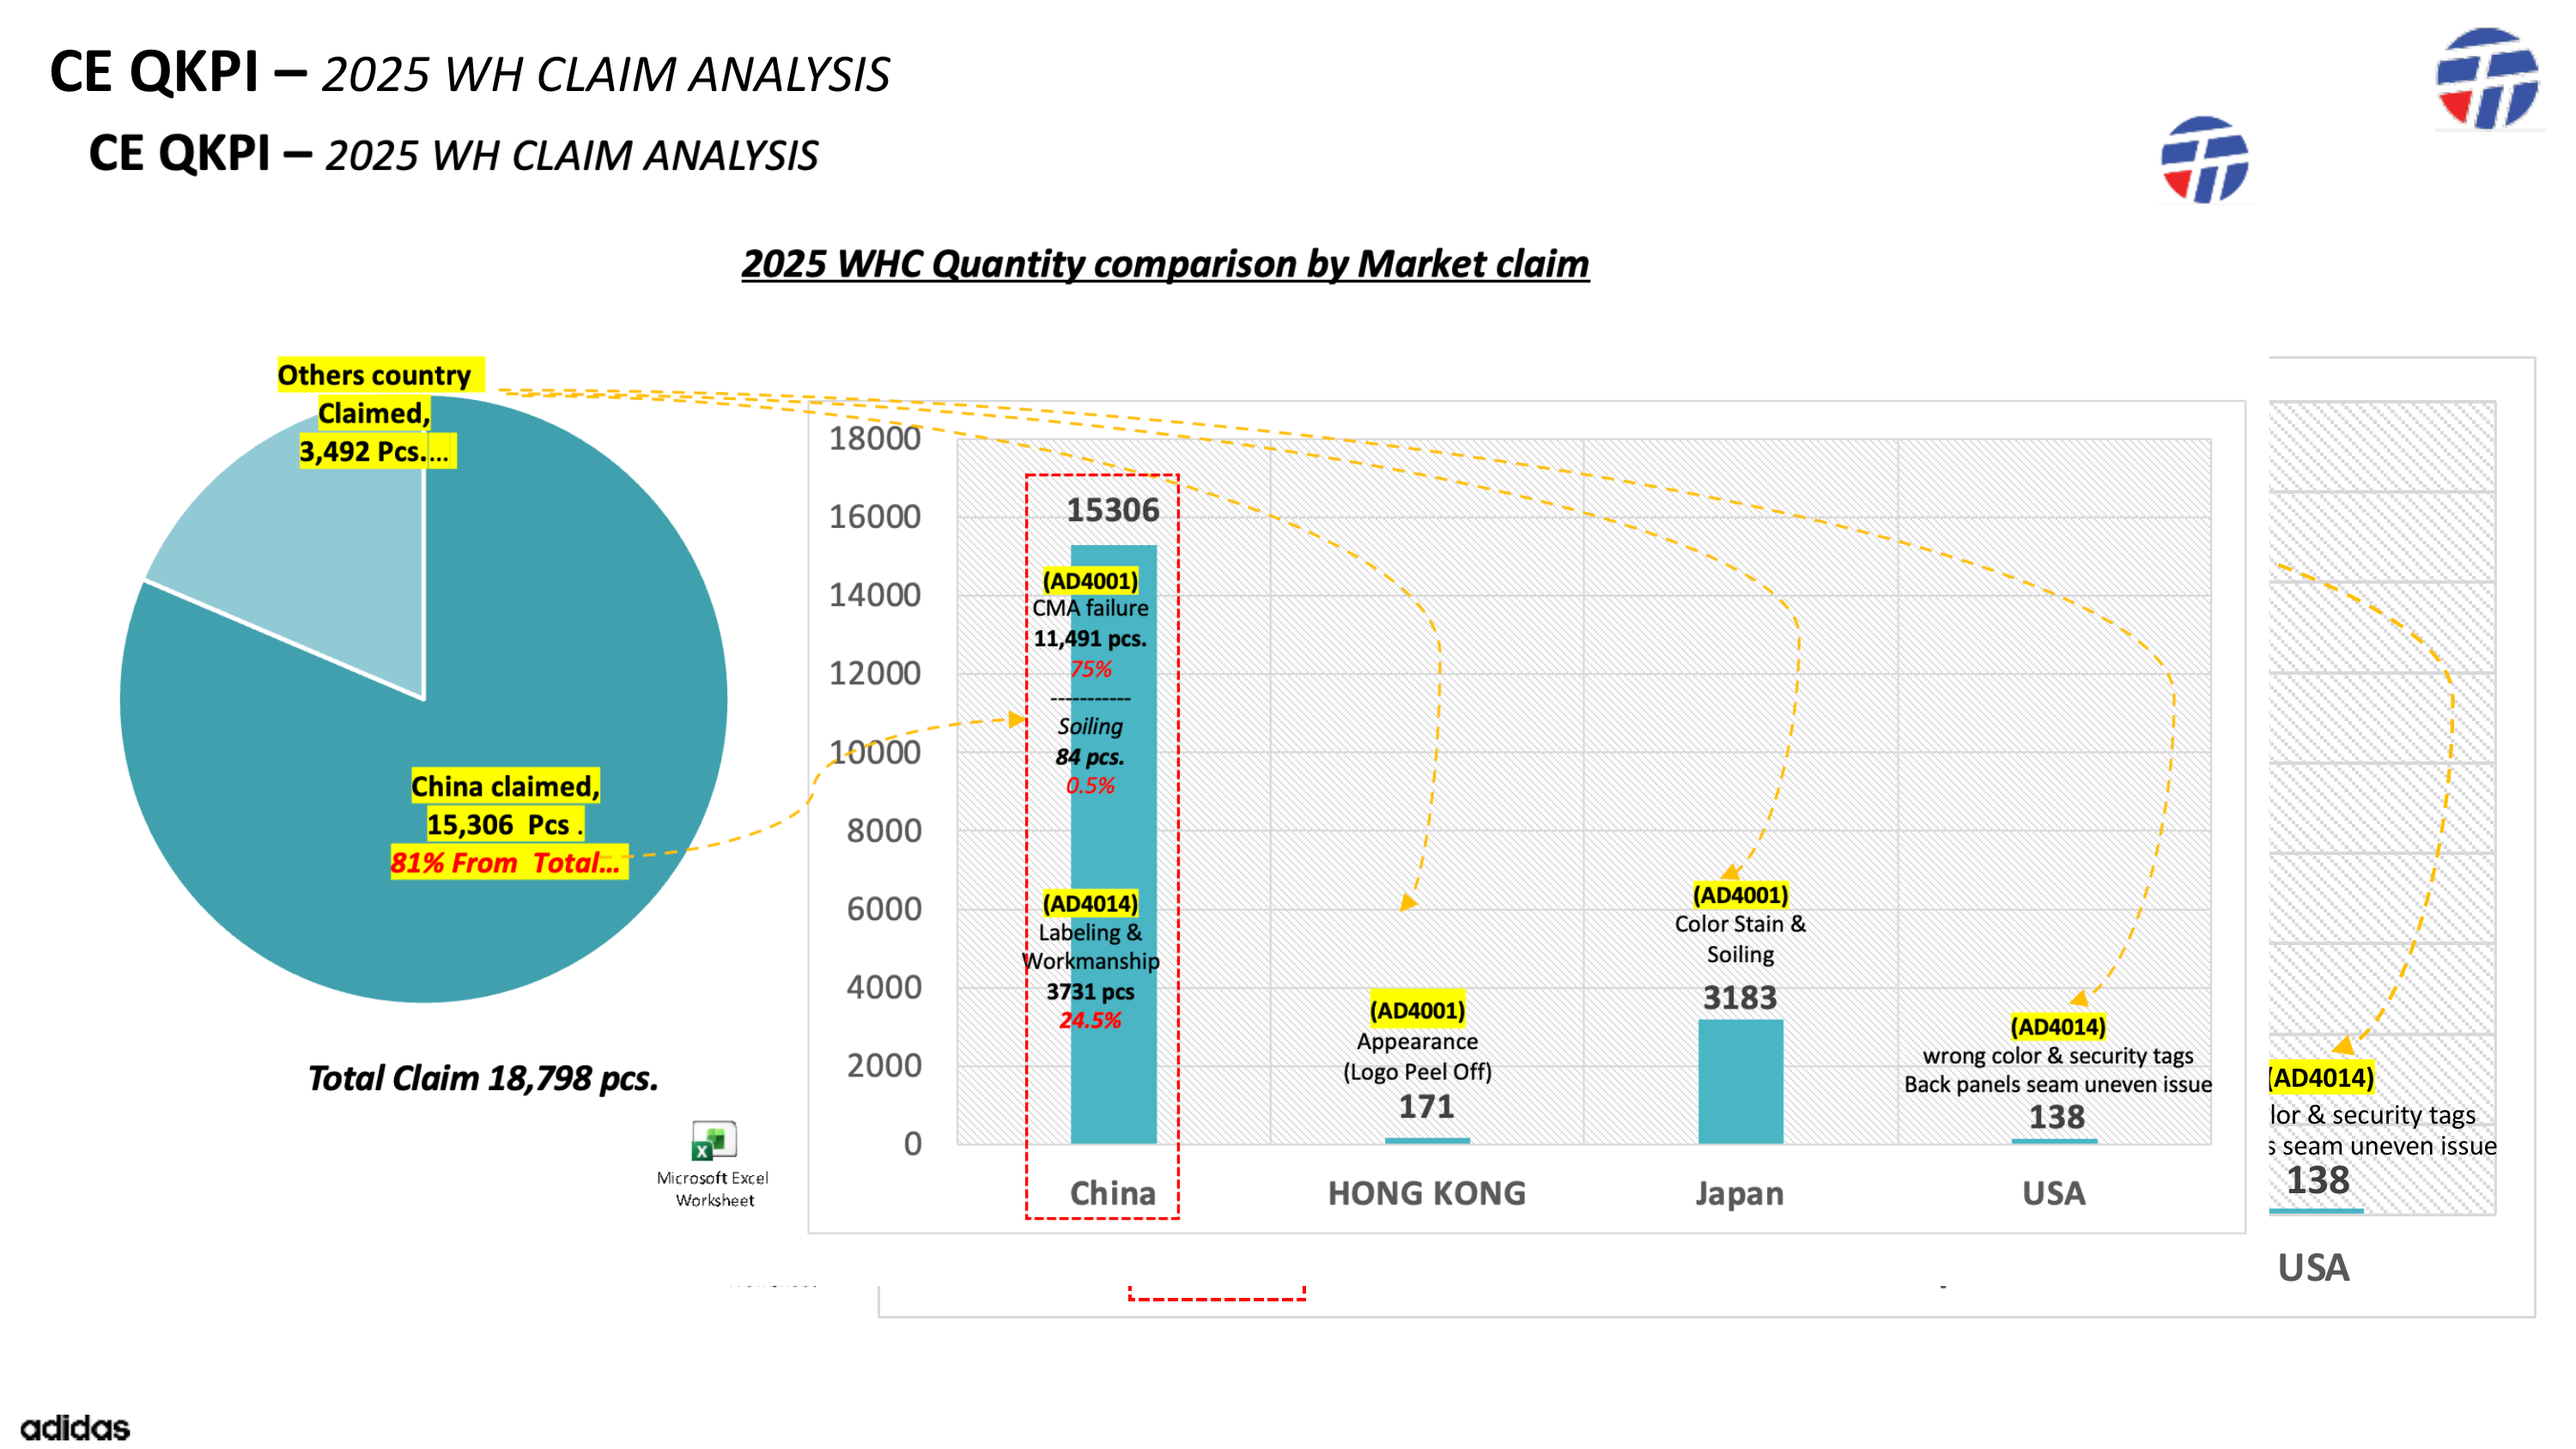
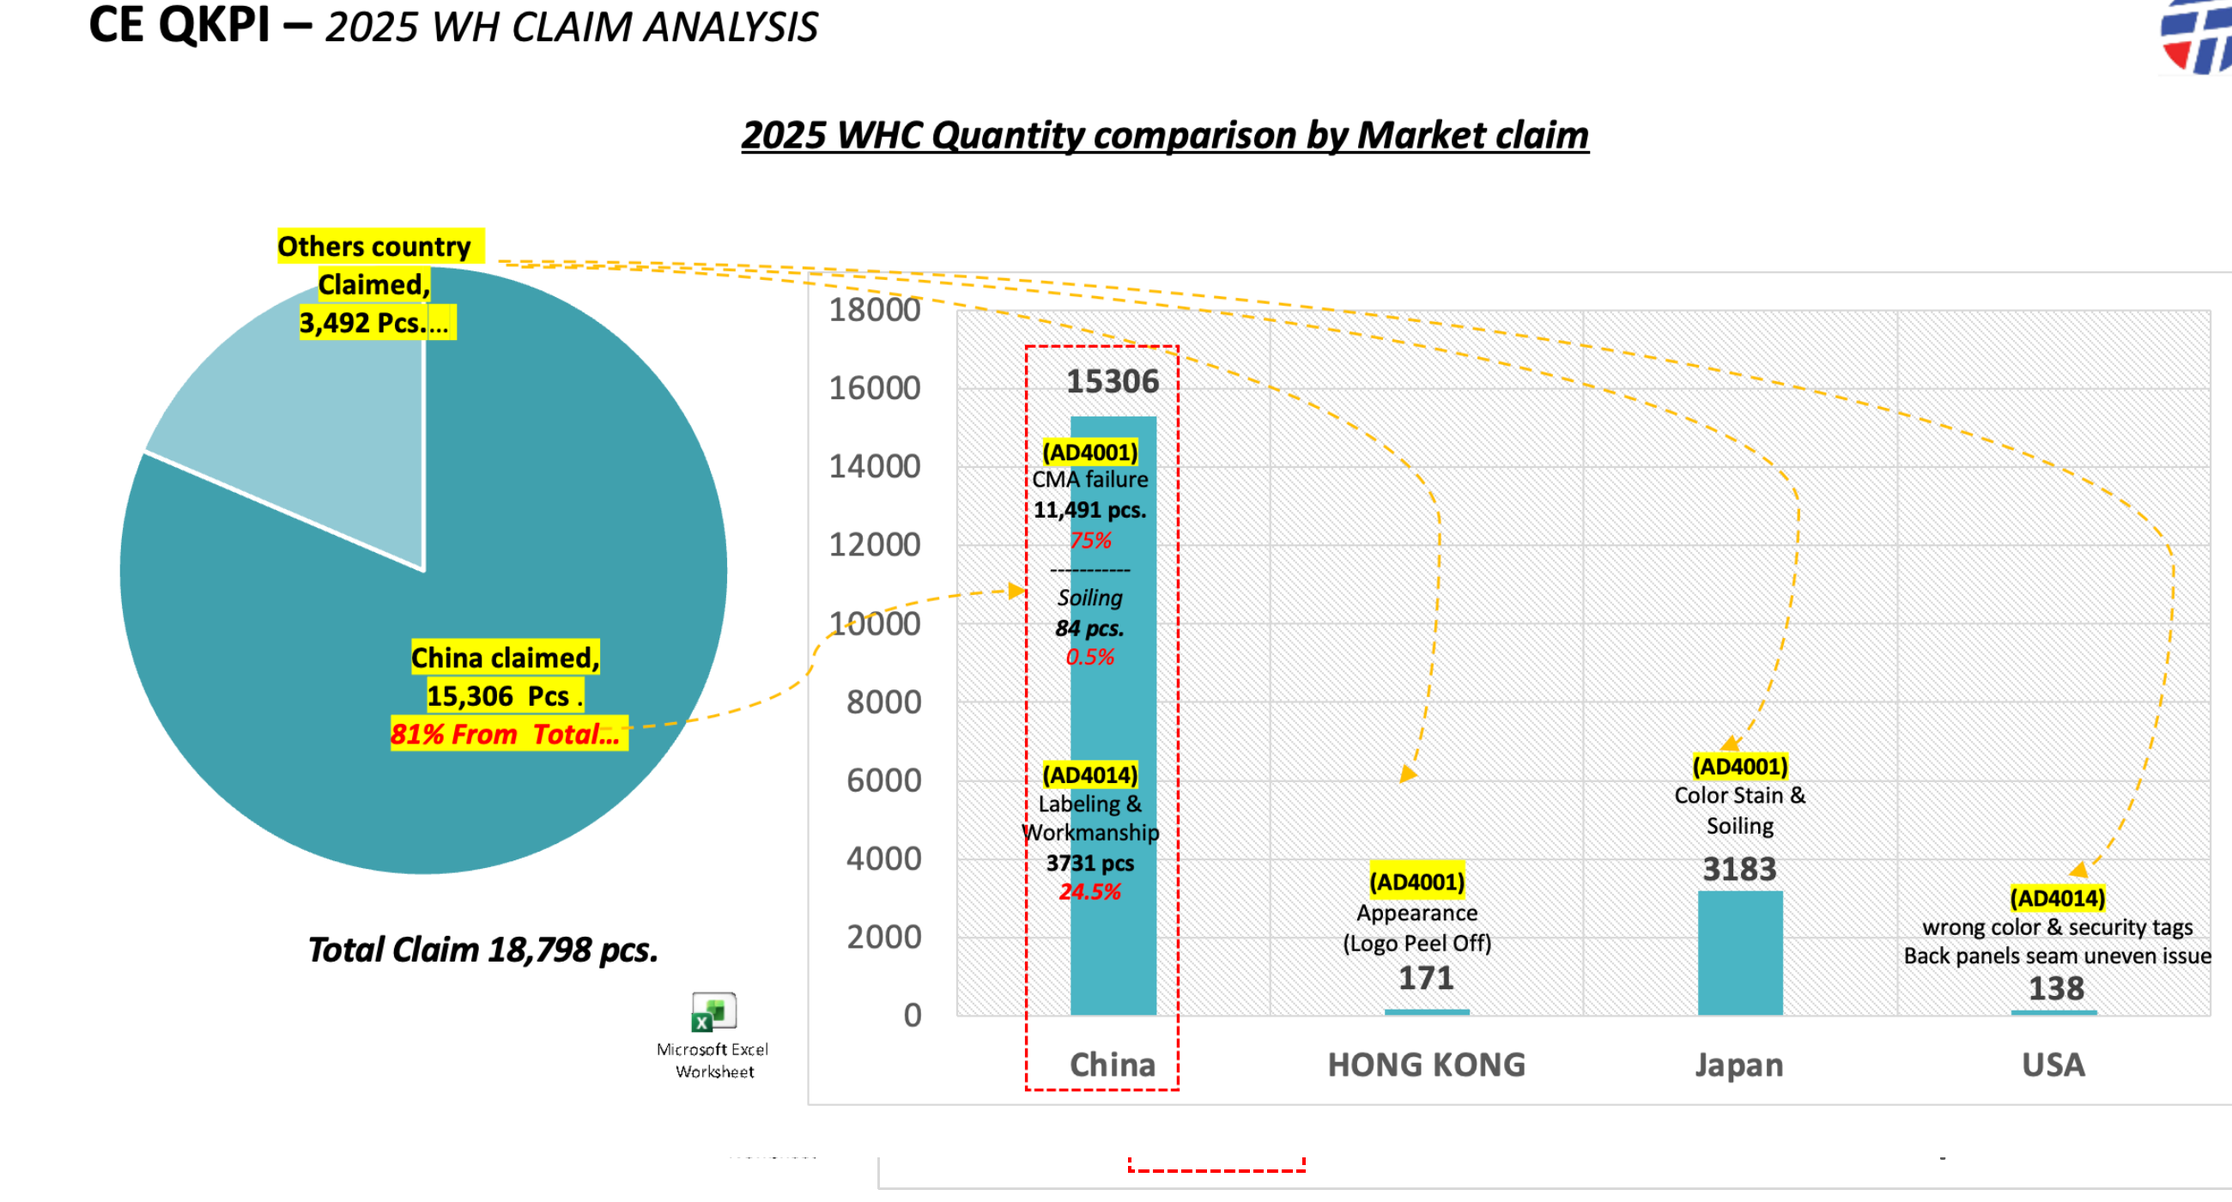
Fix WH Claim image duplication, enlarge visual slides, crop Q-KPI graph
- Crop Q-KPI trend image to show only the line chart + scoring table
  (removed surrounding PPT layout elements)
- Crop WH Claim Analysis image to remove duplicate title header
- Enlarge visual slide images from max-height 55vh to 78vh
- Shrink caption text to give more room to images
- Increase Q-KPI trend image in slide 28 to max-height 240px

diff --git a/index.html b/index.html
@@ -2425,7 +2425,7 @@ function buildKpiDataSlide(kpi) {
   // Trend image (if present — e.g. Quality Q-KPI end year 2025)
   let trendImageHtml = '';
   if (kpi.trendImage) {
-    trendImageHtml = `<div style="margin:4px 0;text-align:center"><img src="${kpi.trendImage}" alt="End Year 2025 Trend" style="max-width:100%;max-height:180px;border-radius:6px;border:1px solid #e0e0e0"></div>`;
+    trendImageHtml = `<div style="margin:4px 0;text-align:center"><img src="${kpi.trendImage}" alt="End Year 2025 Trend" style="max-width:100%;max-height:240px;border-radius:6px;border:1px solid #e0e0e0"></div>`;
   }
 
   // Monthly data table (if present — MDP, SDP, Responsiveness, EFD, Traceability)
@@ -2733,11 +2733,11 @@ function buildKpiExtraSlide(kpi, extra) {
   if (extra.type === 'visual') {
     // Image-based slide (Q-KPI dashboards, SPIKE scale, etc.)
     bodyHtml = `
-      <div style="text-align:center;margin:12px 0">
-        <img src="${extra.image}" alt="${extra.title}" style="max-width:100%;max-height:55vh;border-radius:8px;border:1px solid #e0e0e0;box-shadow:0 2px 12px rgba(0,0,0,0.1)">
+      <div style="text-align:center;margin:4px 0;flex:1;display:flex;align-items:center;justify-content:center">
+        <img src="${extra.image}" alt="${extra.title}" style="max-width:100%;max-height:78vh;border-radius:6px;border:1px solid #e0e0e0;box-shadow:0 2px 8px rgba(0,0,0,0.08)">
       </div>`;
     if (extra.caption) {
-      bodyHtml += `<div style="text-align:center;font-size:13px;color:#777;margin-top:8px;line-height:1.5">${extra.caption}</div>`;
+      bodyHtml += `<div style="text-align:center;font-size:11px;color:#777;margin-top:4px;line-height:1.4">${extra.caption}</div>`;
     }
   }
 
